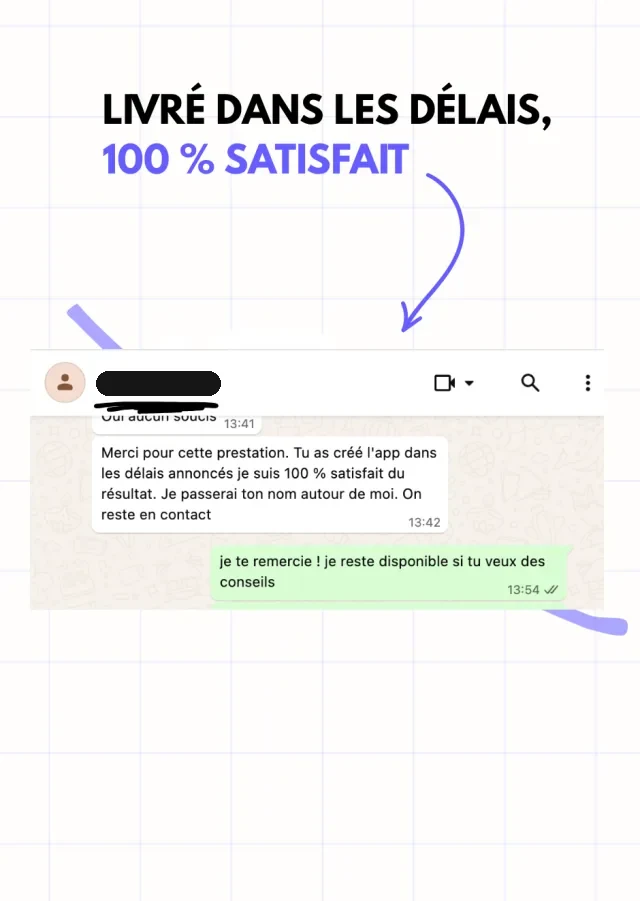
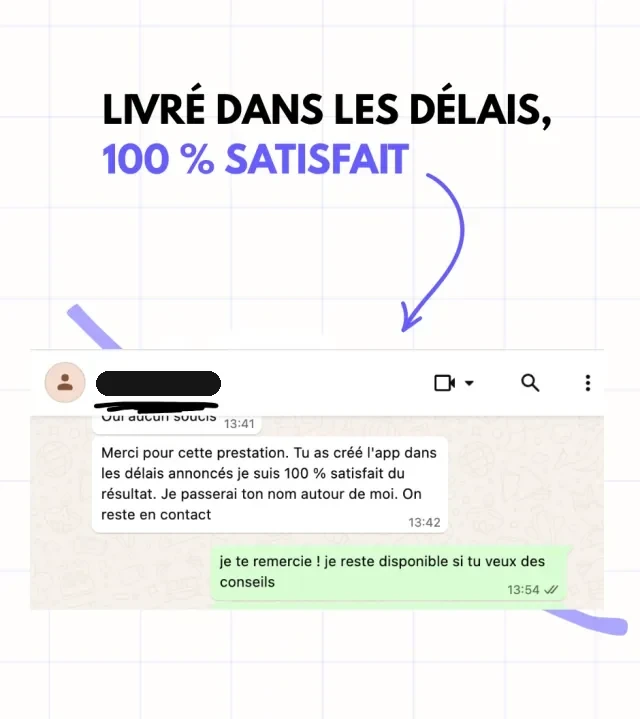
Avis : images raccourcies, note plus courte
- La première et la troisième image des avis perdent leur bas vide : il
  reste sous la conversation la marge du haut. Trois hauteurs, la plus
  haute au milieu ; sur ordinateur, les cartes sont centrées en hauteur.
  Sur téléphone, la partie est plus courte de 130 px.
- Note sous les avis : « Noms masqués par discrétion. » au lieu de
  « Messages reçus sur WhatsApp, noms masqués. ».
- Texte servi aux robots de l'accueil : le contenu des avis vient
  maintenant du texte alt de chaque image (la note est trop courte pour
  être lue).

Claude-Session: https://claude.ai/code/session_01P65FVpXqpWWQ7RQy5iUe2y

diff --git a/src/AvisClients.jsx b/src/AvisClients.jsx
@@ -10,8 +10,10 @@
 // rangée qu'on fait glisser) a été refusé : « c'est plus propre » comme ici.
 //
 // Sur temoignage-idee.webp, la phrase du bas de la story, « Merci pour vos retours ! », est effacée (Noé, 11/10/2026 :
-// sur le site, elle s'adressait aux clients, pas au visiteur) : le quadrillage y est recopié de la bande juste
-// au-dessus, décalé d'un carreau (84 px), pour que les lignes tombent juste.
+// sur le site, elle s'adressait aux clients, pas au visiteur). Puis la première et la troisième image ont été
+// raccourcies (Noé : « l'image n'est pas si longue ») : le bas vide est coupé, il reste sous la conversation la même
+// marge qu'au-dessus du titre (85 px sur 640). D'où trois hauteurs (831, 901 et 719 px) : sur ordinateur, les cartes
+// sont centrées en hauteur, la plus haute au milieu.
 //
 // NOMS MASQUÉS : le 11/10/2026, le nom du client a été recouvert d'une barre noire sur temoignage-refonte.webp et
 // temoignage-delais.webp (il était lisible sur /projets) ; sur temoignage-idee.webp, Noé l'avait déjà effacé. Images
@@ -20,15 +22,17 @@
 // reconnaît), l'application d'agence qui ne rapportait pas (« pourquoi moi et pas une agence », dit par un client),
 // puis les délais tenus. Ton neutre (ni « tu » ni « vous ») : /projets l'exige.
 //
-// Le titre de chaque carte est dans l'image : le texte `alt` le reprend, pour les lecteurs d'écran et pour Google. La
-// note du dessous est lue par scripts/generate-routes.js pour le texte servi aux robots de l'accueil. Pas de classe
+// Le titre de chaque carte est dans l'image : le texte `alt` le reprend, pour les lecteurs d'écran et pour Google, et
+// scripts/generate-routes.js le lit pour le texte servi aux robots de l'accueil (un `alt` par image, entre guillemets
+// doubles). Sous les cartes, une note courte (« Noms masqués par discrétion. », raccourcie le 11/10/2026 à la demande
+// de Noé) : elle explique les barres noires, et rassure celui qui a peur qu'on dévoile son idée. Pas de classe
 // `reveal` ici : seul l'accueil anime ses sections, il enveloppe le composant.
 export function AvisClients() {
   return (
     <>
-      <ul className="flex flex-col lg:flex-row items-center lg:items-start justify-center gap-6" aria-label="Messages de clients">
+      <ul className="flex flex-col lg:flex-row items-center justify-center gap-6" aria-label="Messages de clients">
         <li className="w-full max-w-[330px] lg:max-w-[300px]">
-          <img src="/assets/images/avis/temoignage-idee.webp" width="640" height="901" loading="lazy" decoding="async"
+          <img src="/assets/images/avis/temoignage-idee.webp" width="640" height="831" loading="lazy" decoding="async"
             className="block w-full h-auto rounded-[18px] border border-card-border shadow-[0_10px_36px_rgba(102,93,255,0.14)] transition-transform duration-300 hover:-translate-y-1 hover:rotate-0 lg:-rotate-2"
             alt="D'une simple idée à une app qui tourne. Message WhatsApp d'un client : au départ, il n'avait qu'une idée en tête, rien de concret ; il remercie Noé d'avoir cadré le projet du début à la fin en expliquant honnêtement les coûts et les délais." />
         </li>
@@ -38,12 +42,12 @@ export function AvisClients() {
             alt="Une app qui existait, mais qui ne rapportait pas. Message WhatsApp d'un client : son application, développée par une agence, attirait des utilisateurs mais peu prenaient un abonnement ; Noé a identifié le problème, refait le paywall et l'onboarding, et quelques semaines plus tard l'application génère des revenus." />
         </li>
         <li className="w-full max-w-[330px] lg:max-w-[300px]">
-          <img src="/assets/images/avis/temoignage-delais.webp" width="640" height="901" loading="lazy" decoding="async"
+          <img src="/assets/images/avis/temoignage-delais.webp" width="640" height="719" loading="lazy" decoding="async"
             className="block w-full h-auto rounded-[18px] border border-card-border shadow-[0_10px_36px_rgba(102,93,255,0.14)] transition-transform duration-300 hover:-translate-y-1 hover:rotate-0 lg:rotate-2"
             alt="Livré dans les délais, 100 % satisfait. Message WhatsApp d'un client : l'application a été créée dans les délais annoncés, il est 100 % satisfait du résultat et recommandera Noé autour de lui." />
         </li>
       </ul>
-      <p className="mt-6 lg:mt-9 text-center text-grey text-[0.8rem]">Messages reçus sur WhatsApp, noms masqués.</p>
+      <p className="mt-6 lg:mt-9 text-center text-grey text-[0.8rem]">Noms masqués par discrétion.</p>
     </>
   )
 }

diff --git a/scripts/generate-routes.js b/scripts/generate-routes.js
@@ -271,19 +271,26 @@ const echapper = (t) => t.replace(/&/g, '&amp;').replace(/</g, '&lt;').replace(/
 // Le premier paragraphe extrait est le <h1> de la page : il est retire ici,
 // car le pre-rendu pose deja son propre <h1> a partir de `heading`. Sans ca,
 // tout agent sans JavaScript verrait deux titres de niveau 1.
-// `avecTitre` : pour un morceau de page sans <h1> (un composant inclus dans une page), garder le premier paragraphe.
-function corpsDepuisComposant(fichier, nom, { avecTitre = false } = {}) {
+function corpsDepuisComposant(fichier, nom) {
   const src = readFileSync(join(__dirname, '..', 'src', fichier), 'utf-8')
   const paras = texteDuComposant(src, nom)
   if (!paras.length) throw new Error(`Aucun texte lu dans le composant ${nom} de src/${fichier} : la lecture a probablement casse`)
-  return (avecTitre ? paras : paras.slice(1)).map((p) => `<p>${echapper(p)}</p>`).join('')
+  return paras.slice(1).map((p) => `<p>${echapper(p)}</p>`).join('')
+}
+
+// Les avis clients sont des images (les visuels de Noé) : leur contenu est dans le texte `alt` de chacune, que ce
+// lecteur sert aux robots, un paragraphe par avis. Un `alt` par image, entre guillemets doubles.
+function altDesImages(fichier) {
+  const src = readFileSync(join(__dirname, '..', 'src', fichier), 'utf-8')
+  const alts = [...src.matchAll(/\balt="([^"]{20,})"/g)].map((m) => decoderEntites(m[1]))
+  if (!alts.length) throw new Error(`Aucun texte alt lu dans src/${fichier} : la lecture a probablement casse`)
+  return alts.map((a) => `<p>${echapper(a)}</p>`).join('')
 }
 
 // L'accueil : son corps vit dans le composant App de src/App.jsx, plus les avis clients, qui vivent dans
 // src/AvisClients.jsx depuis le 11/10/2026 (partagés avec /projets). Ils sont ajoutés à la fin du texte : le
 // lecteur ne voit pas le contenu d'une balise <AvisClients />.
-const corpsSeoAccueil = corpsDepuisComposant('App.jsx', 'App')
-  + corpsDepuisComposant('AvisClients.jsx', 'AvisClients', { avecTitre: true })
+const corpsSeoAccueil = corpsDepuisComposant('App.jsx', 'App') + altDesImages('AvisClients.jsx')
 
 const corpsSeoPages = {
   '/expertise': corpsDepuisComposant('PagesSeo.jsx', 'PageExpertise'),

diff --git a/documentation/architecture/landing-page.md b/documentation/architecture/landing-page.md
@@ -288,11 +288,16 @@ tarif et le délai, n'existe plus en tableau : le chiffre d'une agence est sous 
    légèrement penchés sur ordinateur. Le nom du client est recouvert d'une barre noire sur deux d'entre eux (il
    était lisible sur /projets jusqu'au 11/10/2026 ; le troisième, Noé l'avait déjà effacé). Sur le premier, la
    phrase du bas de la story, « Merci pour vos retours ! », est effacée (Noé, 11/10/2026 : elle parlait aux
-   clients, pas au visiteur ; le quadrillage est recopié d'un carreau plus haut). Le titre de chaque
+   clients, pas au visiteur). Puis la première et la troisième image ont été raccourcies (Noé : « l'image n'est
+   pas si longue ») : le bas vide est coupé, il reste sous la conversation la marge du haut. Trois hauteurs, donc,
+   la plus haute au milieu : sur ordinateur, les cartes sont centrées en hauteur. Le titre de chaque
    carte est dans l'image, le texte `alt` le reprend : « D'une simple idée à une app qui tourne », « Une app qui
    existait, mais qui ne rapportait pas », « Livré dans les délais, 100 % satisfait ». Le deuxième répond à
-   « pourquoi moi et pas une agence » et prouve les écrans qui font payer, sans redire la vidéo. Dessous : « Messages
-   reçus sur WhatsApp, noms masqués. » (texte lu par `scripts/generate-routes.js` pour les robots de l'accueil).
+   « pourquoi moi et pas une agence » et prouve les écrans qui font payer, sans redire la vidéo. Dessous, une note
+   courte : « Noms masqués par discrétion. » (« Messages reçus sur WhatsApp, noms masqués. » jusqu'au 11/10/2026 au
+   soir, Noé : « raccourcis le texte ») ; elle explique les barres noires et rassure celui qui a peur qu'on dévoile
+   son idée. Le contenu des avis est dans le texte `alt` de chaque image, que `scripts/generate-routes.js` sert aux
+   robots de l'accueil.
    Essai refusé le même jour : des cartes recadrées sur la conversation, avec le titre écrit en texte, en rangée
    qu'on fait glisser sur téléphone (« c'est plus propre » dans /projets). Ajouter un avis : n'y mettre que des
    messages réels, avec l'accord de la personne, son nom masqué.
